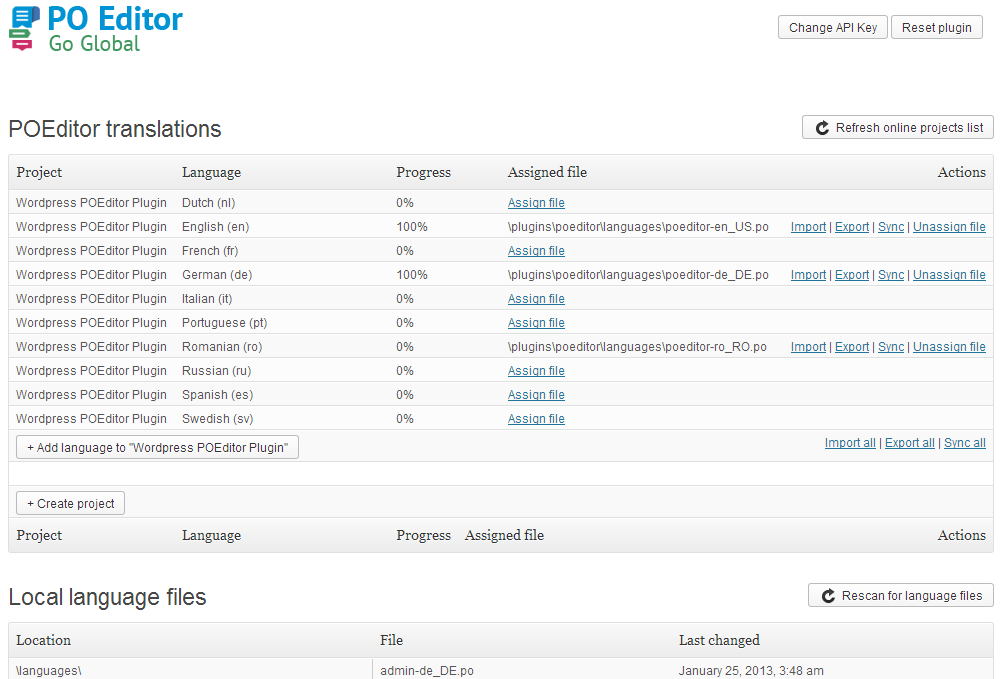
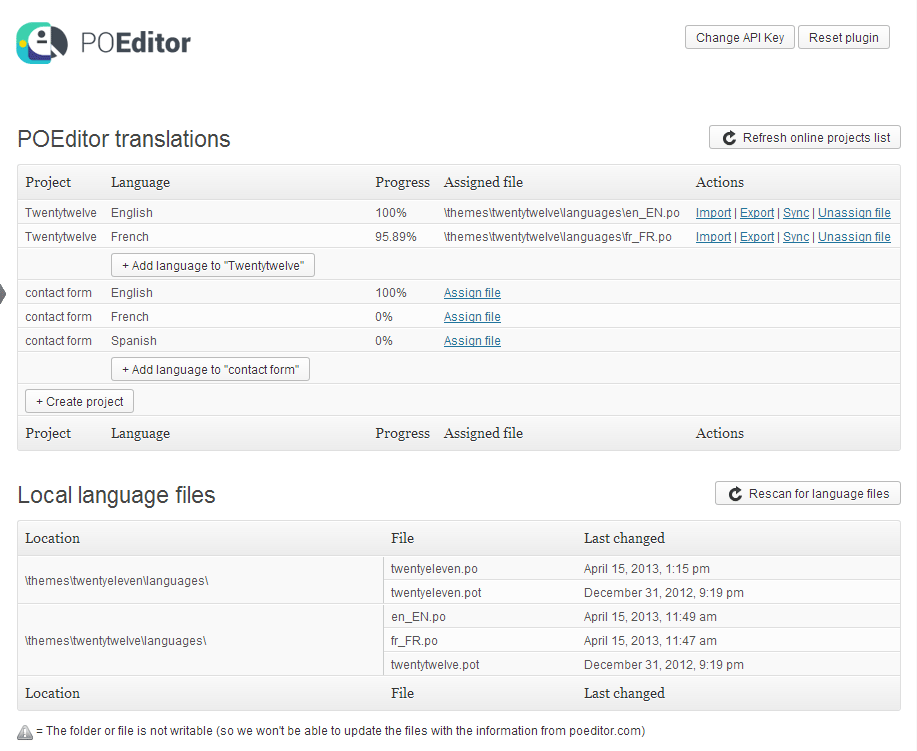
updated with new POEditor identity and added italian localization

diff --git a/poeditor.php b/poeditor.php
@@ -3,7 +3,7 @@
 	Plugin Name: POEditor
 	Plugin URI: https://poeditor.com/
 	Description: This plugin will let you manage your POEditor translations directly from Wordpress via the POEditor API.
-	Version: 0.9.2
+	Version: 0.9.4
 	Author: POEditor
 	Author URI: https://poeditor.com/
 	License: GPLv2
